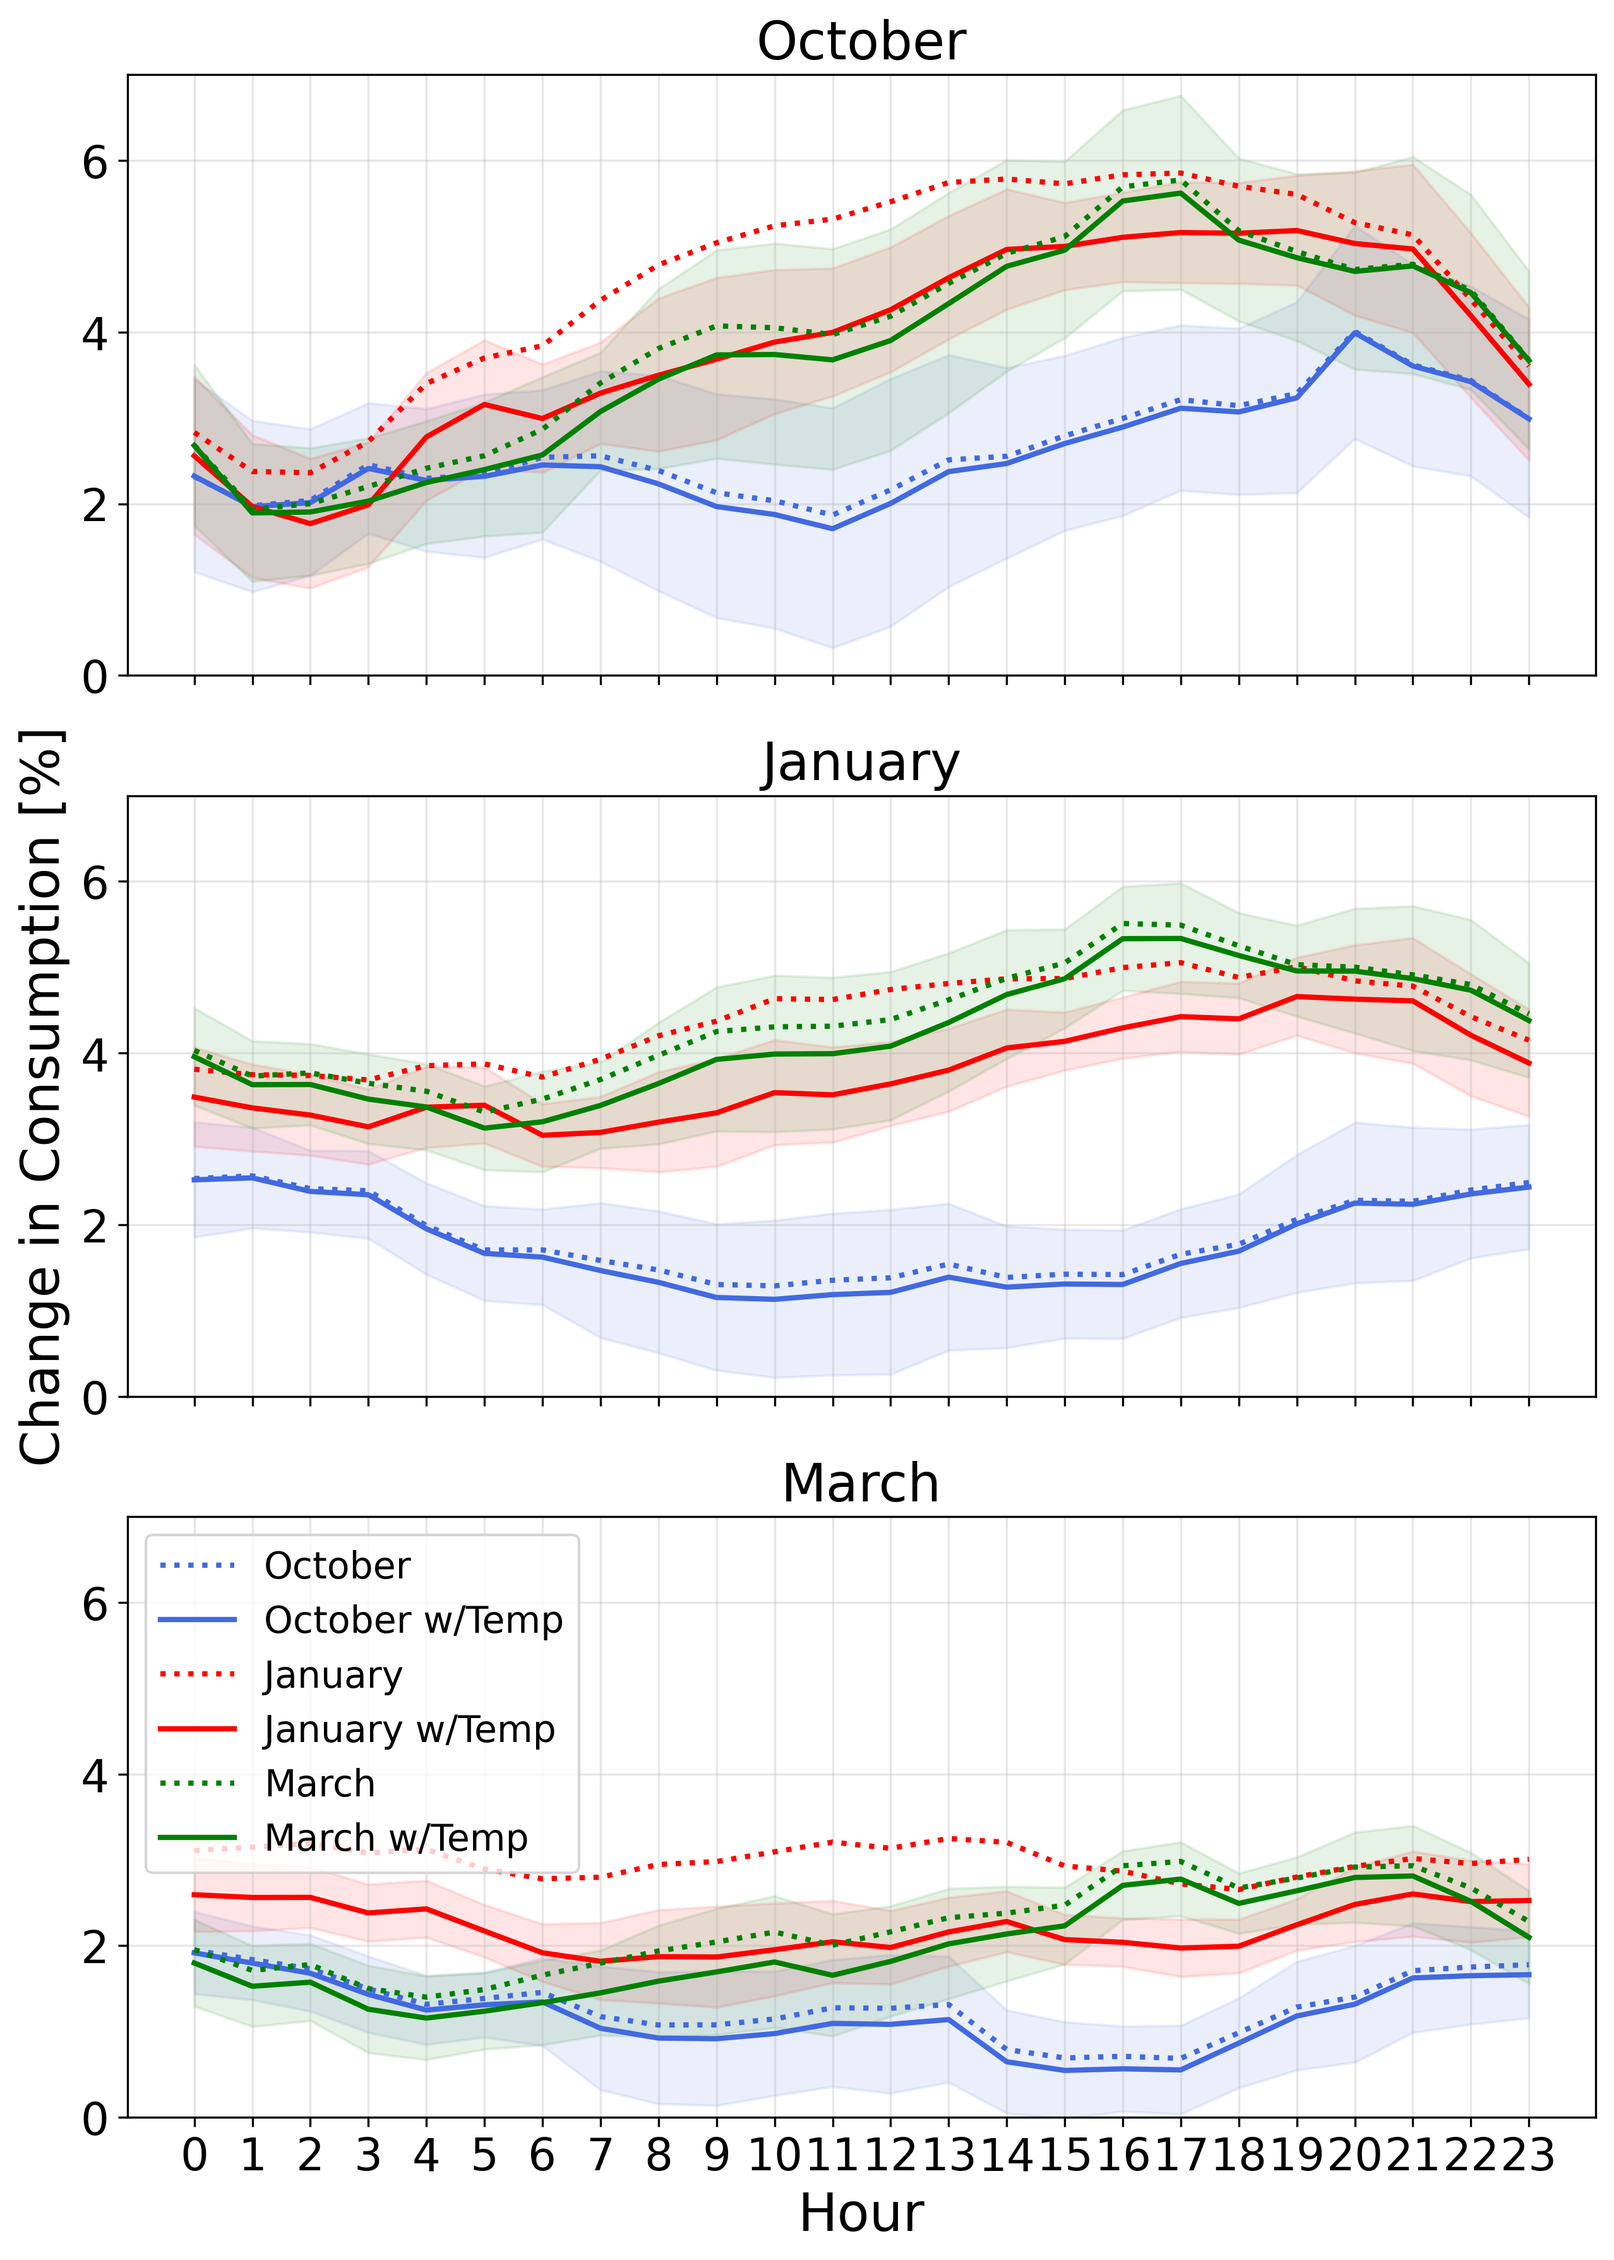
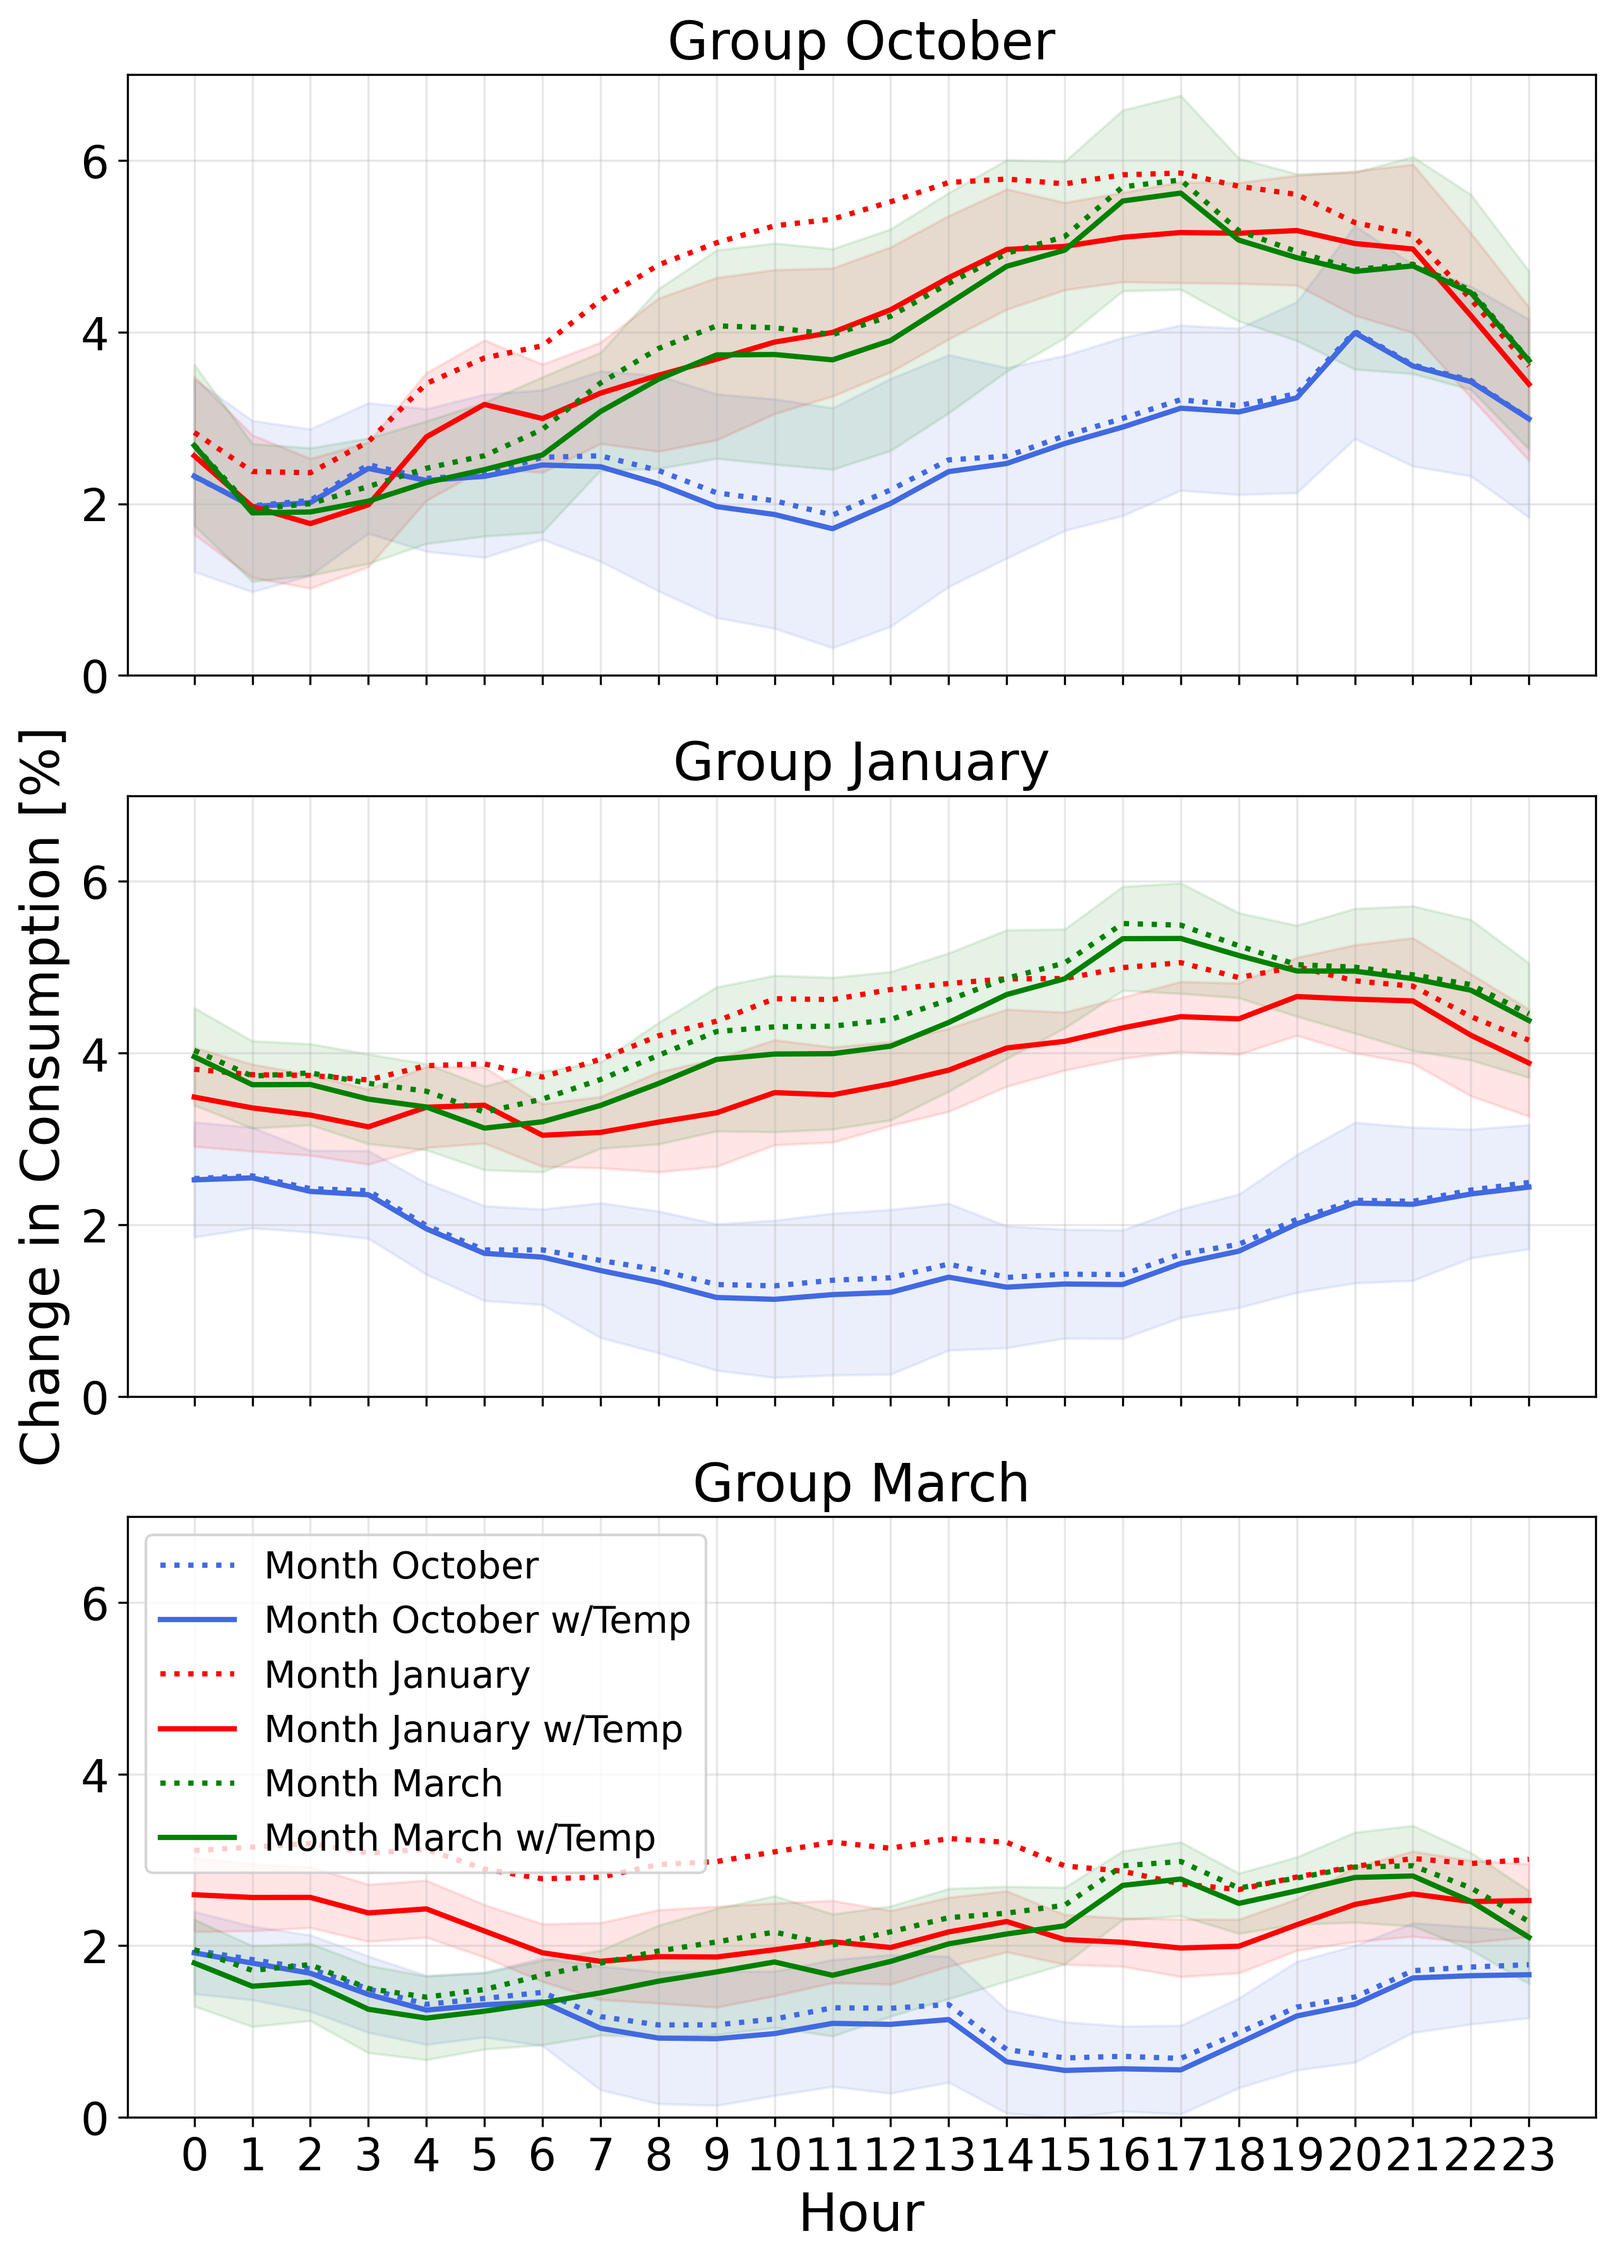
Endringer

diff --git a/DiD_flex_caseStudy.py b/DiD_flex_caseStudy.py
@@ -572,35 +572,35 @@ fig, axes = plt.subplots(3, 1, figsize=(10, 14), sharex=True)
 
 # Første rad
 plot_dognprofil_flex_subplot(axes[0], [
-    {"name": "October", "df": results_NO1_okt, "df_temp": results_NO1_temp_okt, "color": "royalblue"},
-    {"name": "January", "df": results_NO1_jan, "df_temp": results_NO1_temp_jan, "color": "red"},
-    {"name": "March", "df": results_NO1_mars, "df_temp": results_NO1_temp_mars, "color": "green"}
+    {"name": "Month October", "df": results_NO1_okt, "df_temp": results_NO1_temp_okt, "color": "royalblue"},
+    {"name": "Month January", "df": results_NO1_jan, "df_temp": results_NO1_temp_jan, "color": "red"},
+    {"name": "Month March", "df": results_NO1_mars, "df_temp": results_NO1_temp_mars, "color": "green"}
 ])
 
-axes[0].set_title("October", fontsize = 20)
+axes[0].set_title("Group October", fontsize = 20)
 axes[0].tick_params(labelsize = 17)
 axes[0].set_ylim(0,7)
 
 # Andre rad
 plot_dognprofil_flex_subplot(axes[1], [
-    {"name": "October", "df": results_NO1_okt_1, "df_temp": results_NO1_temp_okt_1, "color": "royalblue"},
-    {"name": "January", "df": results_NO1_jan_1, "df_temp": results_NO1_temp_jan_1, "color": "red"},
-    {"name": "March", "df": results_NO1_mars_1, "df_temp": results_NO1_temp_mars_1, "color": "green"}
+    {"name": "Month October", "df": results_NO1_okt_1, "df_temp": results_NO1_temp_okt_1, "color": "royalblue"},
+    {"name": "Month January", "df": results_NO1_jan_1, "df_temp": results_NO1_temp_jan_1, "color": "red"},
+    {"name": "Month March", "df": results_NO1_mars_1, "df_temp": results_NO1_temp_mars_1, "color": "green"}
 ])
 
-axes[1].set_title("January", fontsize = 20)
+axes[1].set_title("Group January", fontsize = 20)
 axes[1].set_ylabel("Change in Consumption [%]", fontsize = 20)
 axes[1].tick_params(labelsize = 17)
 axes[1].set_ylim(0,7)
 
 # Tredje rad
 plot_dognprofil_flex_subplot(axes[2], [
-    {"name": "October", "df": results_NO1_okt_2, "df_temp": results_NO1_temp_okt_2, "color": "royalblue"},
-    {"name": "January", "df": results_NO1_jan_2, "df_temp": results_NO1_temp_jan_2, "color": "red"},
-    {"name": "March", "df": results_NO1_mars_2, "df_temp": results_NO1_temp_mars_2, "color": "green"}
+    {"name": "Month October", "df": results_NO1_okt_2, "df_temp": results_NO1_temp_okt_2, "color": "royalblue"},
+    {"name": "Month January", "df": results_NO1_jan_2, "df_temp": results_NO1_temp_jan_2, "color": "red"},
+    {"name": "Month March", "df": results_NO1_mars_2, "df_temp": results_NO1_temp_mars_2, "color": "green"}
 ])
 
-axes[2].set_title("March", fontsize = 20)
+axes[2].set_title("Group March", fontsize = 20)
 axes[2].set_xlabel("Hour", fontsize = 20)
 axes[2].tick_params(labelsize = 17)
 axes[2].set_ylim(0,7)
